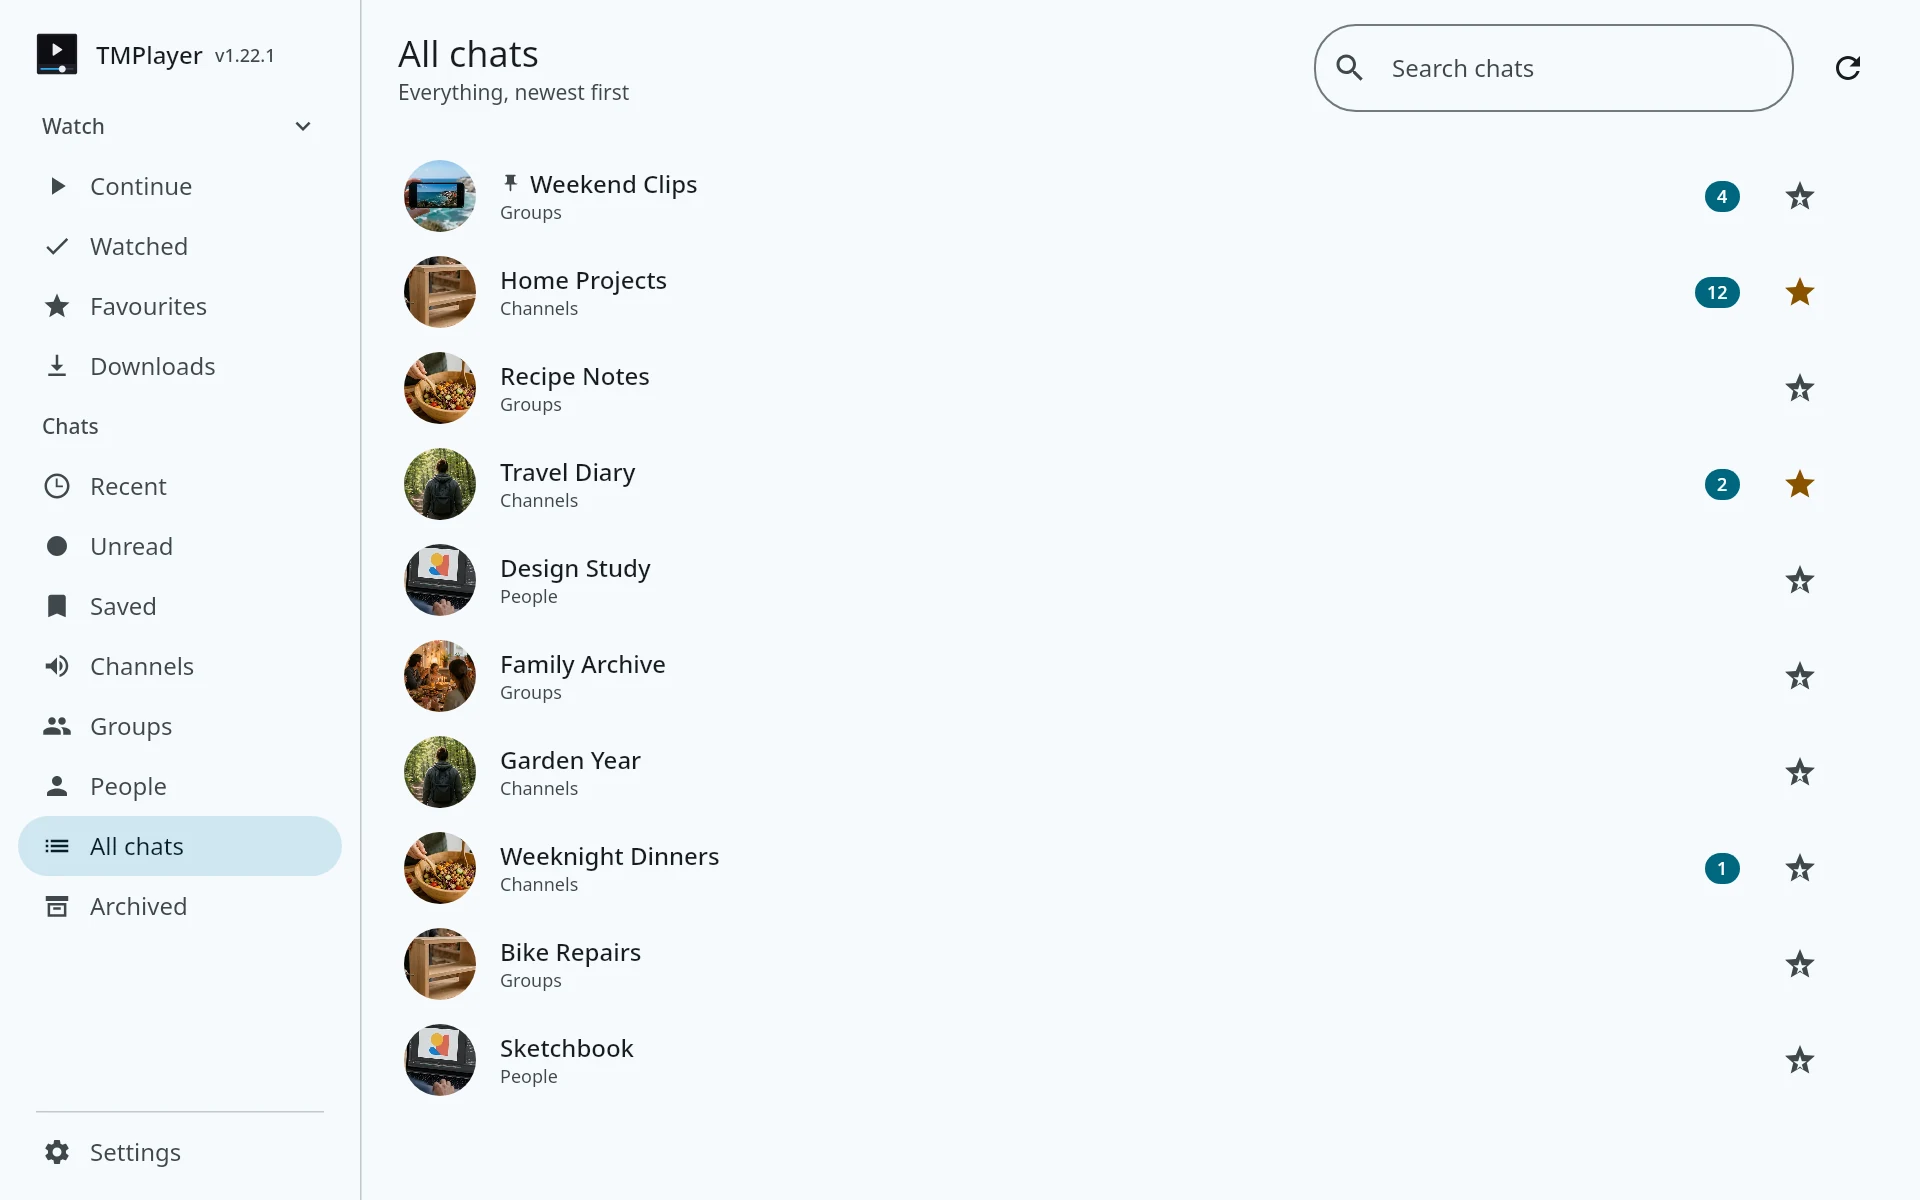
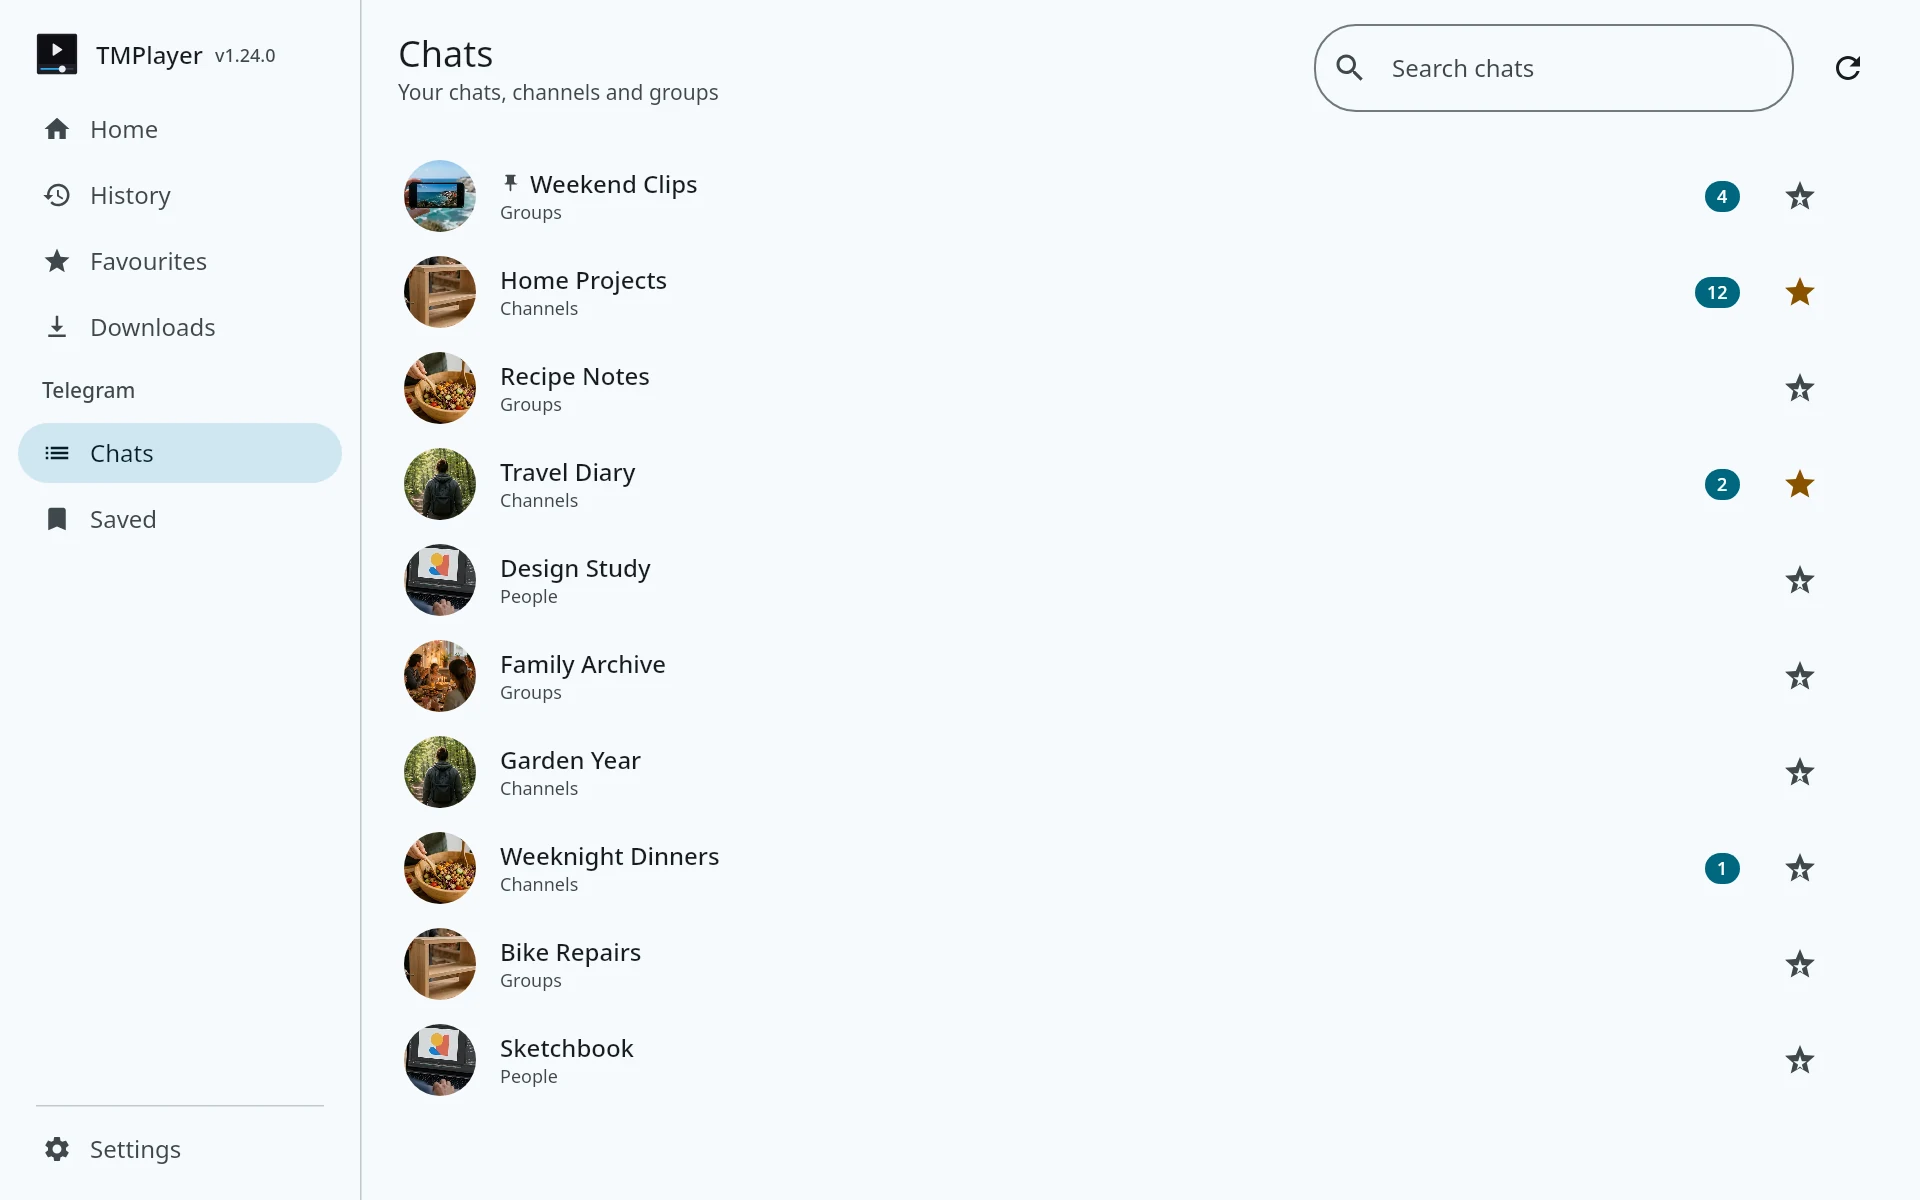
onboarding: the desktop tour's chat list picture shows today's side bar with Chats picked, not the old Watch and Chats lists
todo: desktop AppImage and MSI checks done

diff --git a/desktop/src/test/kotlin/com/tmplayer/desktop/promo/PromoShots.kt b/desktop/src/test/kotlin/com/tmplayer/desktop/promo/PromoShots.kt
@@ -158,7 +158,7 @@ class PromoShots {
     }
 
     @Test
-    fun chats() = both("chats") {
+    fun chats() = both("chats", before = { shell.showChats(shell.chatSection) }) {
         withSidebar {
             val list = rememberLazyListState()
             val nav = rememberKeyboardNav(remember(list) { ListSurface(list) })

diff --git a/todo.md b/todo.md
@@ -27,7 +27,11 @@ State on 2026-10-10. Everything is pushed. The full plan is `docs/PLAN.md`.
 
 - Emulators only, never the real TV stick. Both AVDs (`tmplayer_phone_api36`, `tmplayer_tv_api36`) are signed
   in to the user's Telegram in the debug build; keep it with `adb install -r` of debug builds.
-- [ ] AppImage on this machine and the MSI in the podman `win11` VM: not done in this session.
+- [x] Desktop, 2026-10-10. AppImage built from main with the real keys: self test passes, opens signed in
+  on Home, TDLib reaches Ready, exits clean. MSI from CI on main: installs, launches on Windows 11 in
+  the light theme with readable onboarding buttons, uninstalls clean; CI checked the 1.24.0 upgrade.
+  Not covered: sign in and playback on Windows (CI builds carry no API keys), clicking through the
+  AppImage (no input tool on this machine).
 
 ## On hold
 
